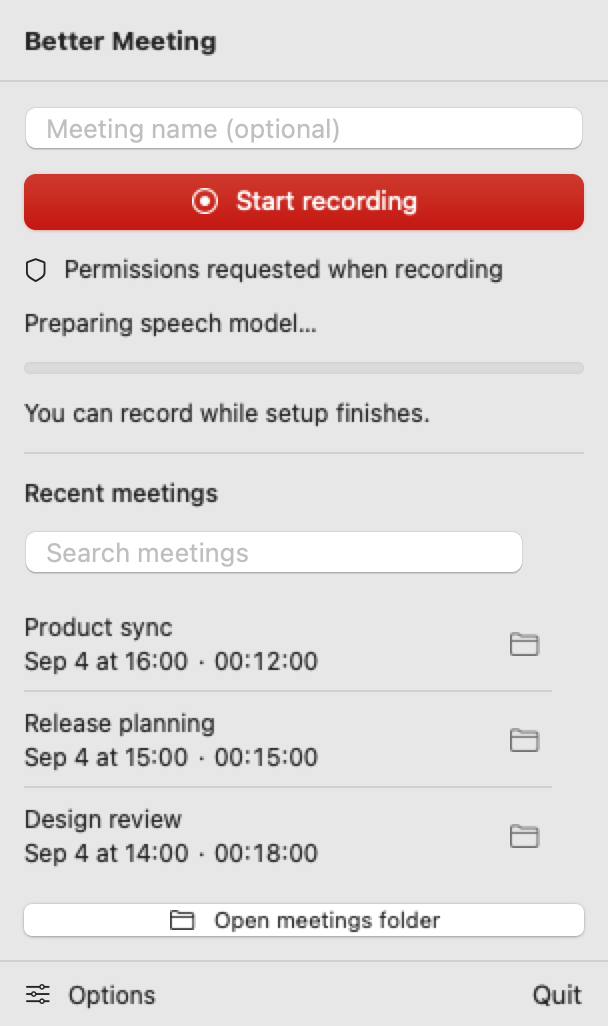
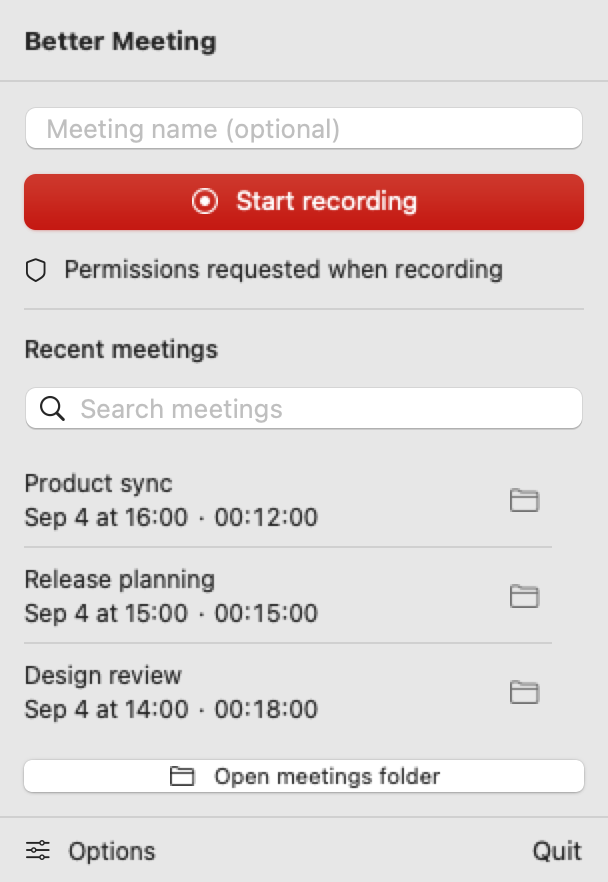
Fix search field width and saved meeting row layout

diff --git a/Sources/BetterMeetingApp/MenuBarControlView.swift b/Sources/BetterMeetingApp/MenuBarControlView.swift
@@ -5,7 +5,6 @@ struct MenuBarControlView: View {
     @EnvironmentObject private var model: AppModel
     @State var captureOptionsPresented = false
     @State private var retranscribingMeeting: MeetingHistoryItem?
-    @FocusState private var searchFocused: Bool
 
     var body: some View {
         VStack(alignment: .leading, spacing: 0) {
@@ -209,27 +208,8 @@ struct MenuBarControlView: View {
             Text("Recent meetings")
                 .font(.callout.weight(.medium))
 
-            HStack(spacing: 6) {
-                TextField("Search meetings", text: $model.historyQuery)
-                    .textFieldStyle(.roundedBorder)
-                    .focused($searchFocused)
-                    .accessibilityLabel("Search all meetings")
-                    .help("Search all titles and transcripts")
-
-                Button {
-                    model.historyQuery = ""
-                    searchFocused = true
-                } label: {
-                    Image(systemName: "xmark.circle.fill")
-                        .frame(width: 24, height: 24)
-                }
-                .buttonStyle(.borderless)
-                .help("Clear search")
-                .accessibilityLabel("Clear search")
-                .disabled(model.historyQuery.isEmpty)
-                .opacity(model.historyQuery.isEmpty ? 0 : 1)
-                .accessibilityHidden(model.historyQuery.isEmpty)
-            }
+            MeetingSearchField(text: $model.historyQuery)
+                .frame(height: 24)
 
             Group {
                 if model.searchingHistory {
@@ -242,7 +222,7 @@ struct MenuBarControlView: View {
                     ScrollView {
                         LazyVStack(alignment: .leading, spacing: 0) {
                             ForEach(model.transcriptionHistory) { item in
-                                historyRow(item)
+                                historyRow(item, isSaved: item.folderURL == model.completedFolder)
 
                                 if item.id != model.transcriptionHistory.last?.id {
                                     Divider()
@@ -268,26 +248,29 @@ struct MenuBarControlView: View {
         }
     }
 
-    private func historyRow(_ item: MeetingHistoryItem) -> some View {
+    func historyRow(_ item: MeetingHistoryItem, isSaved: Bool) -> some View {
         HStack(spacing: 10) {
             VStack(alignment: .leading, spacing: 2) {
-                Text(item.title)
-                    .font(.callout)
-                    .lineLimit(1)
+                HStack(spacing: 6) {
+                    Text(item.title)
+                        .lineLimit(1)
+                    if isSaved {
+                        Label("Saved", systemImage: "checkmark.circle.fill")
+                            .labelStyle(.iconOnly)
+                            .foregroundStyle(.green)
+                            .help("Saved")
+                    }
+                }
+                .font(.callout)
 
                 HStack(spacing: 4) {
-                    if item.folderURL == model.completedFolder {
-                        Label("Saved", systemImage: "checkmark.circle.fill")
-                            .foregroundStyle(.green)
-                        Text("·")
-                    }
-
                     Text(item.recordedAt, format: .dateTime.month(.abbreviated).day().hour().minute())
                     Text("·")
                     Text(Timecode.string(item.duration))
                         .monospacedDigit()
                 }
                 .font(.callout)
+                .lineLimit(1)
             }
 
             Spacer(minLength: 8)
@@ -499,5 +482,39 @@ struct MenuBarControlView: View {
         .frame(maxWidth: .infinity, alignment: .leading)
         .padding(12)
         .background(Color.red.opacity(0.08), in: RoundedRectangle(cornerRadius: 10))
+    }
+}
+
+private struct MeetingSearchField: NSViewRepresentable {
+    @Binding var text: String
+
+    func makeNSView(context: Context) -> NSSearchField {
+        let field = NSSearchField()
+        field.placeholderString = "Search meetings"
+        field.toolTip = "Search all titles and transcripts"
+        field.setAccessibilityLabel("Search all meetings")
+        field.setContentHuggingPriority(.defaultLow, for: .horizontal)
+        field.sendsSearchStringImmediately = true
+        field.sendsWholeSearchString = false
+        field.target = context.coordinator
+        field.action = #selector(Coordinator.search(_:))
+        return field
+    }
+
+    func updateNSView(_ field: NSSearchField, context: Context) {
+        context.coordinator.text = $text
+        if field.stringValue != text { field.stringValue = text }
+    }
+
+    func makeCoordinator() -> Coordinator { Coordinator(text: $text) }
+
+    final class Coordinator: NSObject {
+        var text: Binding<String>
+
+        init(text: Binding<String>) { self.text = text }
+
+        @objc func search(_ field: NSSearchField) {
+            text.wrappedValue = field.stringValue
+        }
     }
 }

diff --git a/Tests/BetterMeetingTests/RecoveryTests.swift b/Tests/BetterMeetingTests/RecoveryTests.swift
@@ -182,7 +182,17 @@ final class RecoveryTests: XCTestCase {
             NSHostingView(rootView: MenuBarControlView().environmentObject(model)).fittingSize
         }
         let initial = size()
-        model.historyQuery = "Meeting 1"
+        let menu = NSHostingView(rootView: MenuBarControlView().environmentObject(model))
+        menu.frame = NSRect(origin: .zero, size: initial)
+        menu.layoutSubtreeIfNeeded()
+        func searchField(in view: NSView) -> NSSearchField? {
+            (view as? NSSearchField) ?? view.subviews.lazy.compactMap { searchField(in: $0) }.first
+        }
+        let field = try XCTUnwrap(searchField(in: menu))
+        XCTAssertEqual(field.bounds.width, initial.width - 24, accuracy: 1, "Search must fill the padded content width")
+        field.stringValue = "Meeting 1"
+        field.sendAction(field.action, to: field.target)
+        XCTAssertEqual(model.historyQuery, "Meeting 1")
         XCTAssertTrue(model.searchingHistory)
         XCTAssertEqual(size(), initial)
         await model.historySearchTask?.value
@@ -192,9 +202,28 @@ final class RecoveryTests: XCTestCase {
         await model.historySearchTask?.value
         XCTAssertTrue(model.transcriptionHistory.isEmpty)
         XCTAssertEqual(size(), initial)
-        model.historyQuery = ""
+        let cell = try XCTUnwrap(field.cell as? NSSearchFieldCell)
+        let clear = try XCTUnwrap(cell.cancelButtonCell)
+        clear.performClick(field)
+        XCTAssertEqual(model.historyQuery, "")
         XCTAssertEqual(model.transcriptionHistory.count, 7)
         XCTAssertEqual(size(), initial)
+    }
+
+    @MainActor
+    func testSavedMeetingKeepsTheSameRowHeight() {
+        _ = NSApplication.shared
+        let item = MeetingHistoryItem(
+            title: "2026-09-05 14.39.08", recordedAt: Date(timeIntervalSince1970: 1_788_611_948),
+            duration: 34, folderURL: URL(fileURLWithPath: "/tmp/layout-preview"),
+            needsTranscription: false, titleWasProvided: false
+        )
+        for saved in [false, true] {
+            let row = NSHostingView(rootView: MenuBarControlView().historyRow(item, isSaved: saved)
+                .environment(\.locale, Locale(identifier: "en_US"))
+                .frame(width: 264))
+            XCTAssertEqual(row.fittingSize.height, 47, "The saved indicator must not wrap meeting details")
+        }
     }
 
     @MainActor
